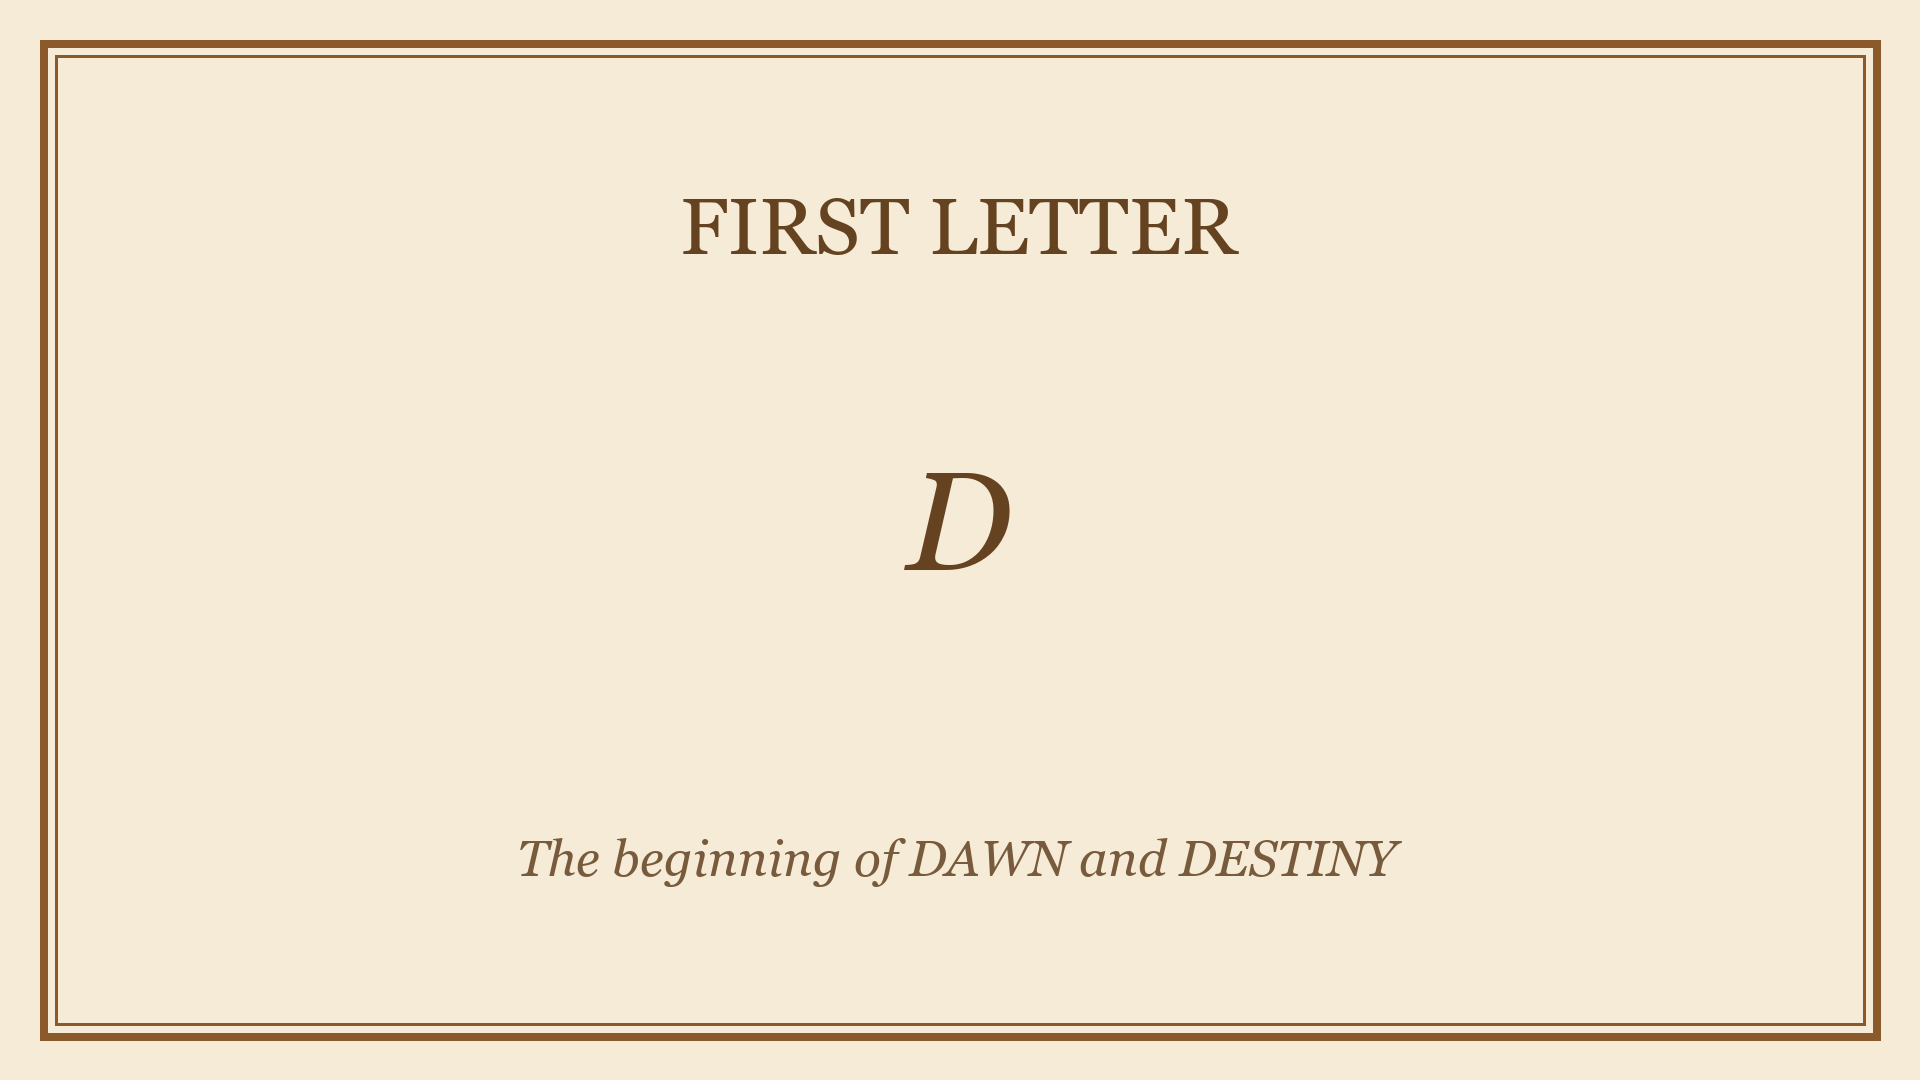
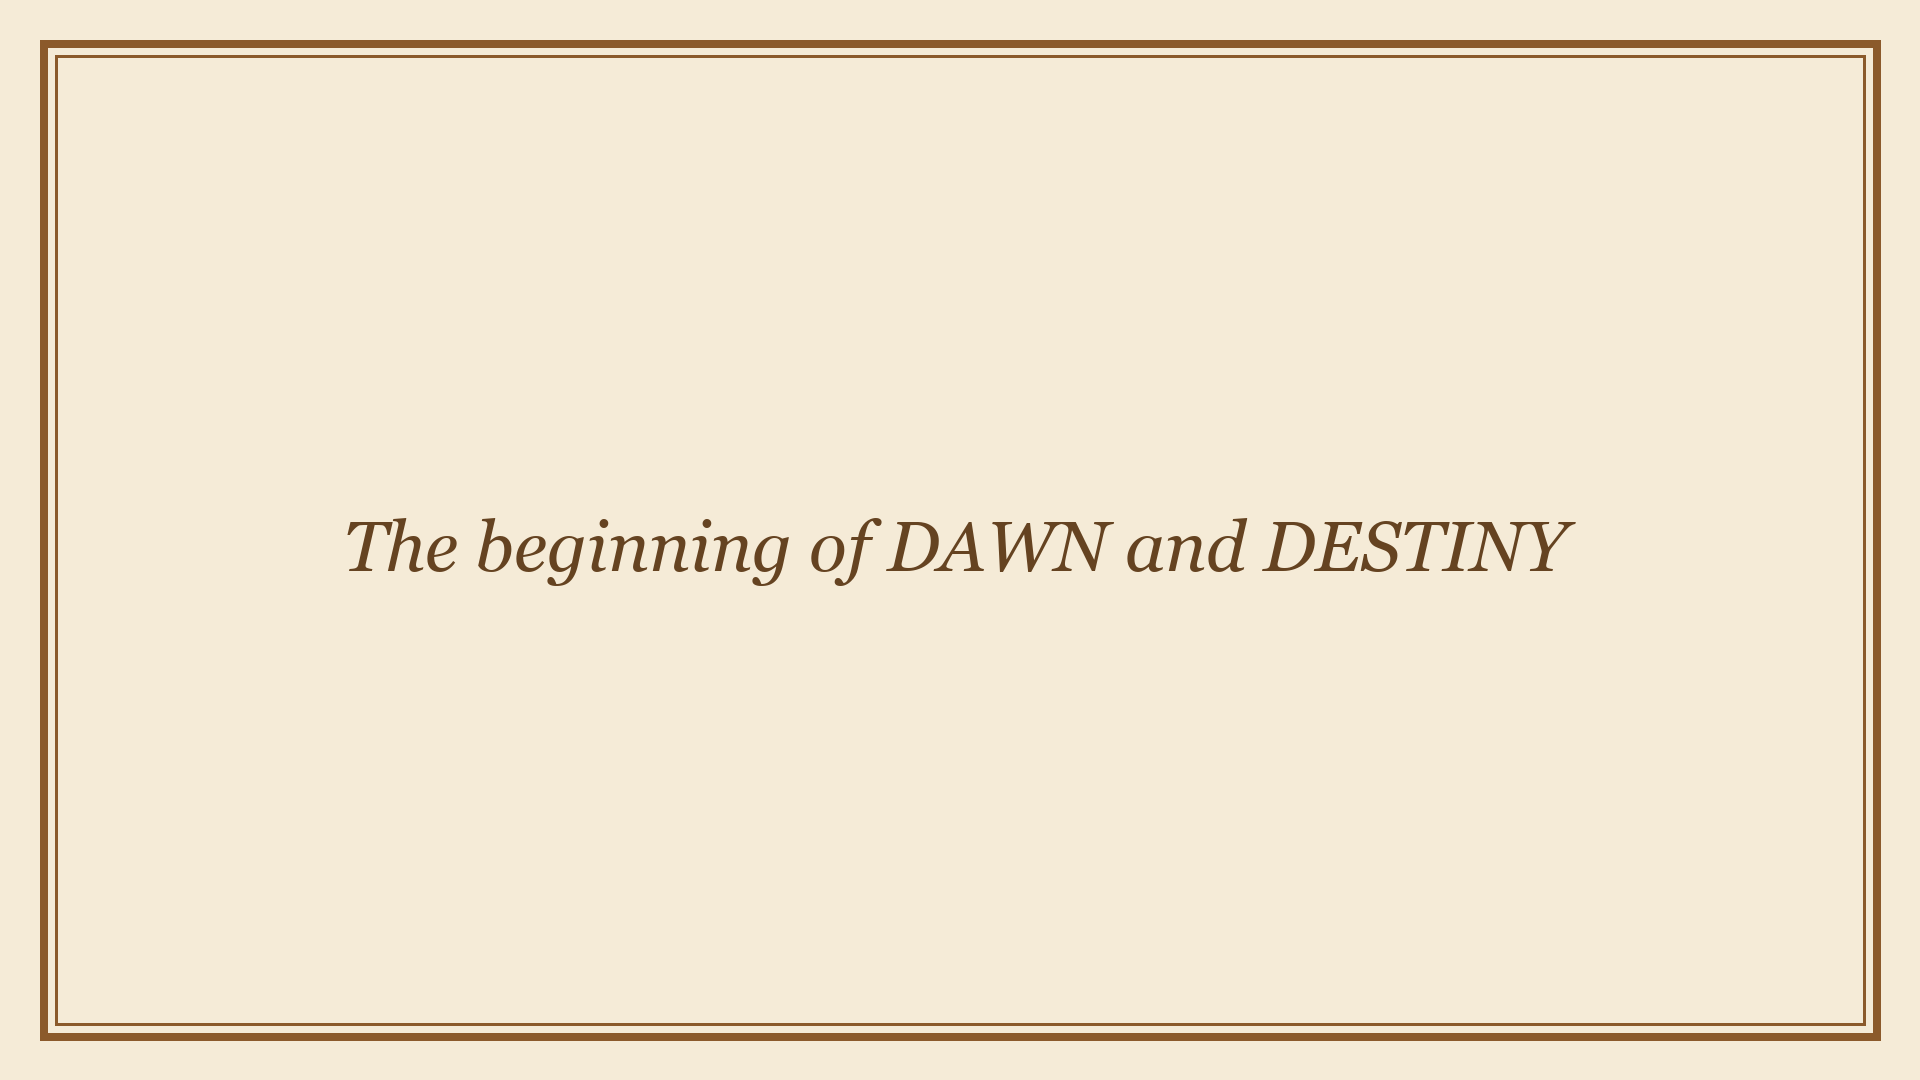
Fix: Remove answer letters from puzzle images, show only riddles

Changed region(s): [[0.1875, 0.4278, 0.8125, 0.55], [0.2812, 0.7639, 0.7188, 0.825], [0.3438, 0.1833, 0.6562, 0.2444]]

diff --git a/create_danzil_layers_fixed.py b/create_danzil_layers_fixed.py
@@ -1,0 +1,61 @@
+#!/usr/bin/env python3
+from PIL import Image, ImageDraw, ImageFont
+import os
+
+WIDTH, HEIGHT = 1920, 1080
+BG_COLOR = (245, 235, 215)  # Beige
+TEXT_COLOR = (101, 67, 33)  # Brown
+BORDER_COLOR = (139, 90, 43)  # Dark brown
+
+OUTPUT_DIR = "content/treasure_hunt_chapter1/layers"
+
+def create_puzzle_layer(filename, riddle_text):
+    """Create a puzzle layer with ONLY the riddle (no answer shown)"""
+    img = Image.new('RGB', (WIDTH, HEIGHT), BG_COLOR)
+    draw = ImageDraw.Draw(img)
+
+    # Load fonts
+    try:
+        riddle_font = ImageFont.truetype("C:/Windows/Fonts/georgiai.ttf", 70)
+    except:
+        riddle_font = ImageFont.load_default()
+
+    # Draw border
+    draw.rectangle([(40, 40), (WIDTH-40, HEIGHT-40)], outline=BORDER_COLOR, width=8)
+    draw.rectangle([(55, 55), (WIDTH-55, HEIGHT-55)], outline=BORDER_COLOR, width=3)
+
+    # Draw riddle text centered
+    riddle_bbox = draw.textbbox((0, 0), riddle_text, font=riddle_font)
+    riddle_w = riddle_bbox[2] - riddle_bbox[0]
+    riddle_h = riddle_bbox[3] - riddle_bbox[1]
+    draw.text(((WIDTH - riddle_w) // 2, (HEIGHT - riddle_h) // 2), riddle_text, fill=TEXT_COLOR, font=riddle_font)
+
+    img.save(os.path.join(OUTPUT_DIR, filename), "PNG", quality=95)
+    print(f"Created: {filename}")
+
+# Create the 6 REAL puzzle layers (only riddles, no answers)
+create_puzzle_layer("nft_5_layer_1.png",
+    "The beginning of DAWN and DESTINY")
+
+create_puzzle_layer("nft_8_layer_4.png",
+    "The first letter of the ALPHABET")
+
+create_puzzle_layer("nft_12_layer_2.png",
+    "Found in NINE and NORTH")
+
+create_puzzle_layer("nft_15_layer_5.png",
+    "The last letter - ZERO to ZENITH")
+
+create_puzzle_layer("nft_17_layer_3.png",
+    "The self - ME, MYSELF and ___")
+
+create_puzzle_layer("nft_20_layer_6.png",
+    "LOVE begins with this letter")
+
+# Create the FAKE puzzle layer (looks convincing, doesn't say "decoy")
+create_puzzle_layer("nft_4_layer_7.png",
+    "The end of SEAQUEST and TREASURE")
+
+print("\nAll 7 Chapter 1 DANZIL puzzle layers created!")
+print("Real letters spell: D-A-N-Z-I-L")
+print("Fake clue points to: E (wrong!)")
